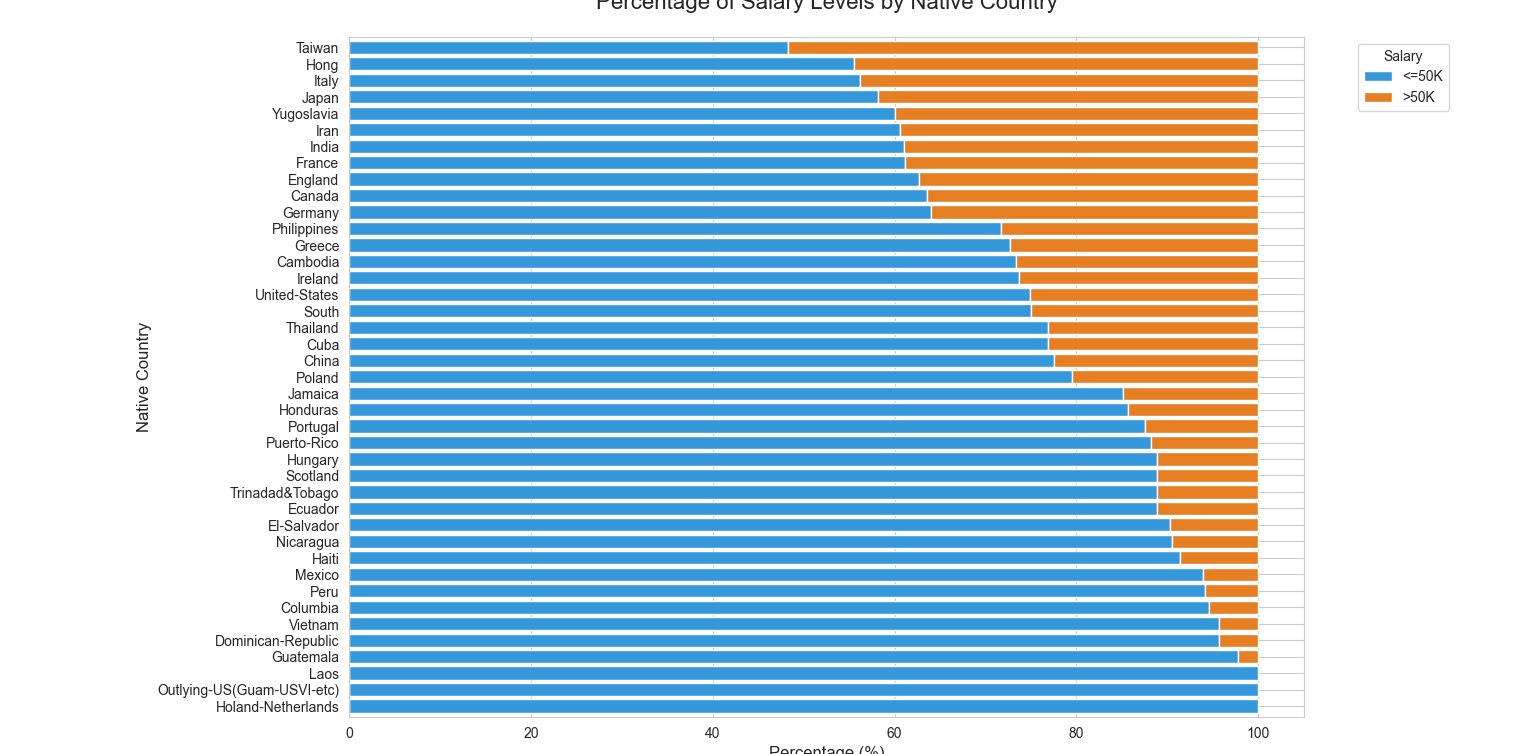
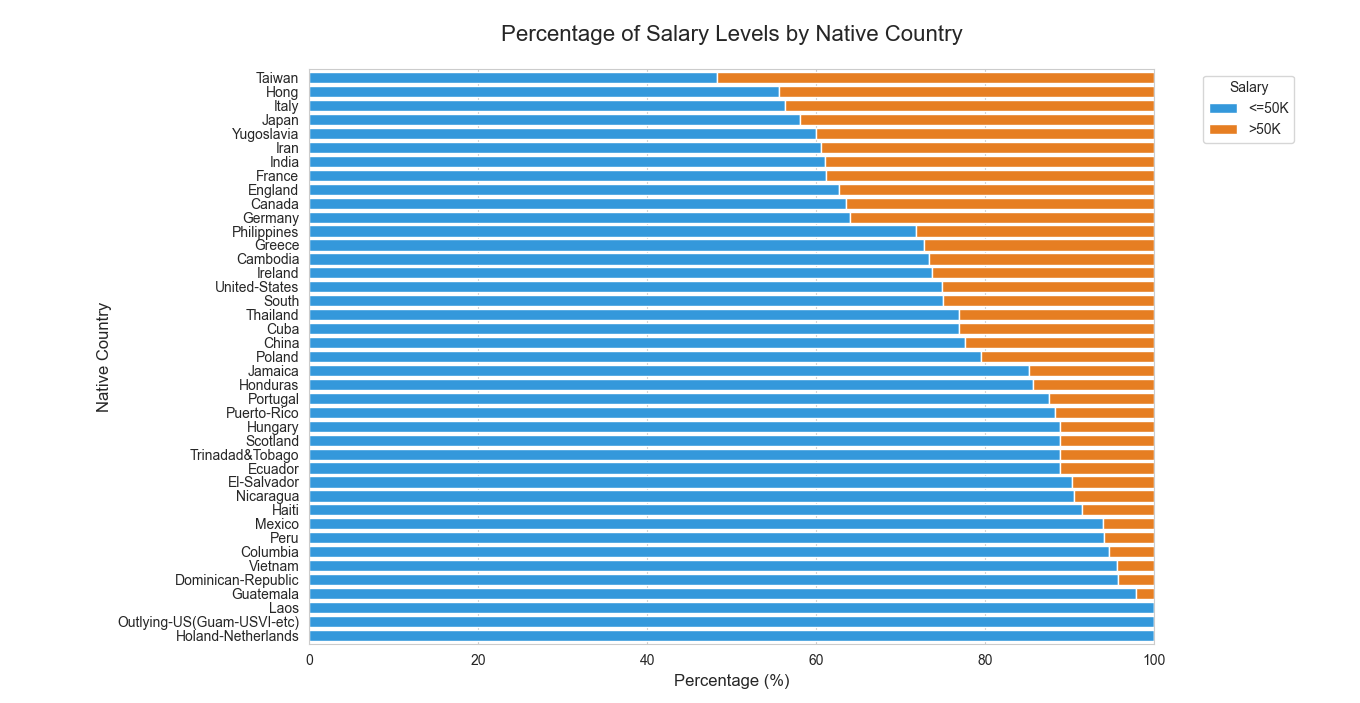
fix: new percentage_of_salary_levels image

diff --git a/src/training_models.py b/src/training_models.py
@@ -91,9 +91,9 @@ def tune_LogisticRegression(X_train, y_train):
 def tune_RandomForest(X_train, y_train):
     rf_param_space = {
         "n_estimators": Integer(100, 500),
-        "max_depth": Integer(5, 50),
-        "min_samples_split": Integer(2, 20),
         "max_features": Categorical(["sqrt", "log2", 0.3, 0.5, 0.7]),
+        "min_samples_split": Integer(2, 20), # 10
+        "max_depth": Integer(5, 50),
     }
 
     rf_bayes_search = BayesSearchCV(

diff --git a/cursor/src/config.py b/cursor/src/config.py
@@ -1,7 +1,11 @@
 """Shared constants for paths, columns, and model defaults."""
 
+from pathlib import Path
+
+# Repo layout: AI_project/data/Test.csv and AI_project/cursor/src/config.py
+_PROJECT_ROOT = Path(__file__).resolve().parent.parent.parent
 TARGET = "salary"
-DATA_PATH = "../data/Test.csv"
+DATA_PATH = str(_PROJECT_ROOT / "data" / "Test.csv")
 
 CAT_COLS = [
     "workclass",

diff --git a/cursor/src/data.py b/cursor/src/data.py
@@ -6,7 +6,6 @@ import pandas as pd
 from sklearn.model_selection import train_test_split
 
 from .config import RANDOM_STATE, TARGET, TEST_SIZE
-from preprocessing import preprocessing_phase_1, split_train_test
 
 
 def load_dataset(data_path: str) -> pd.DataFrame:
